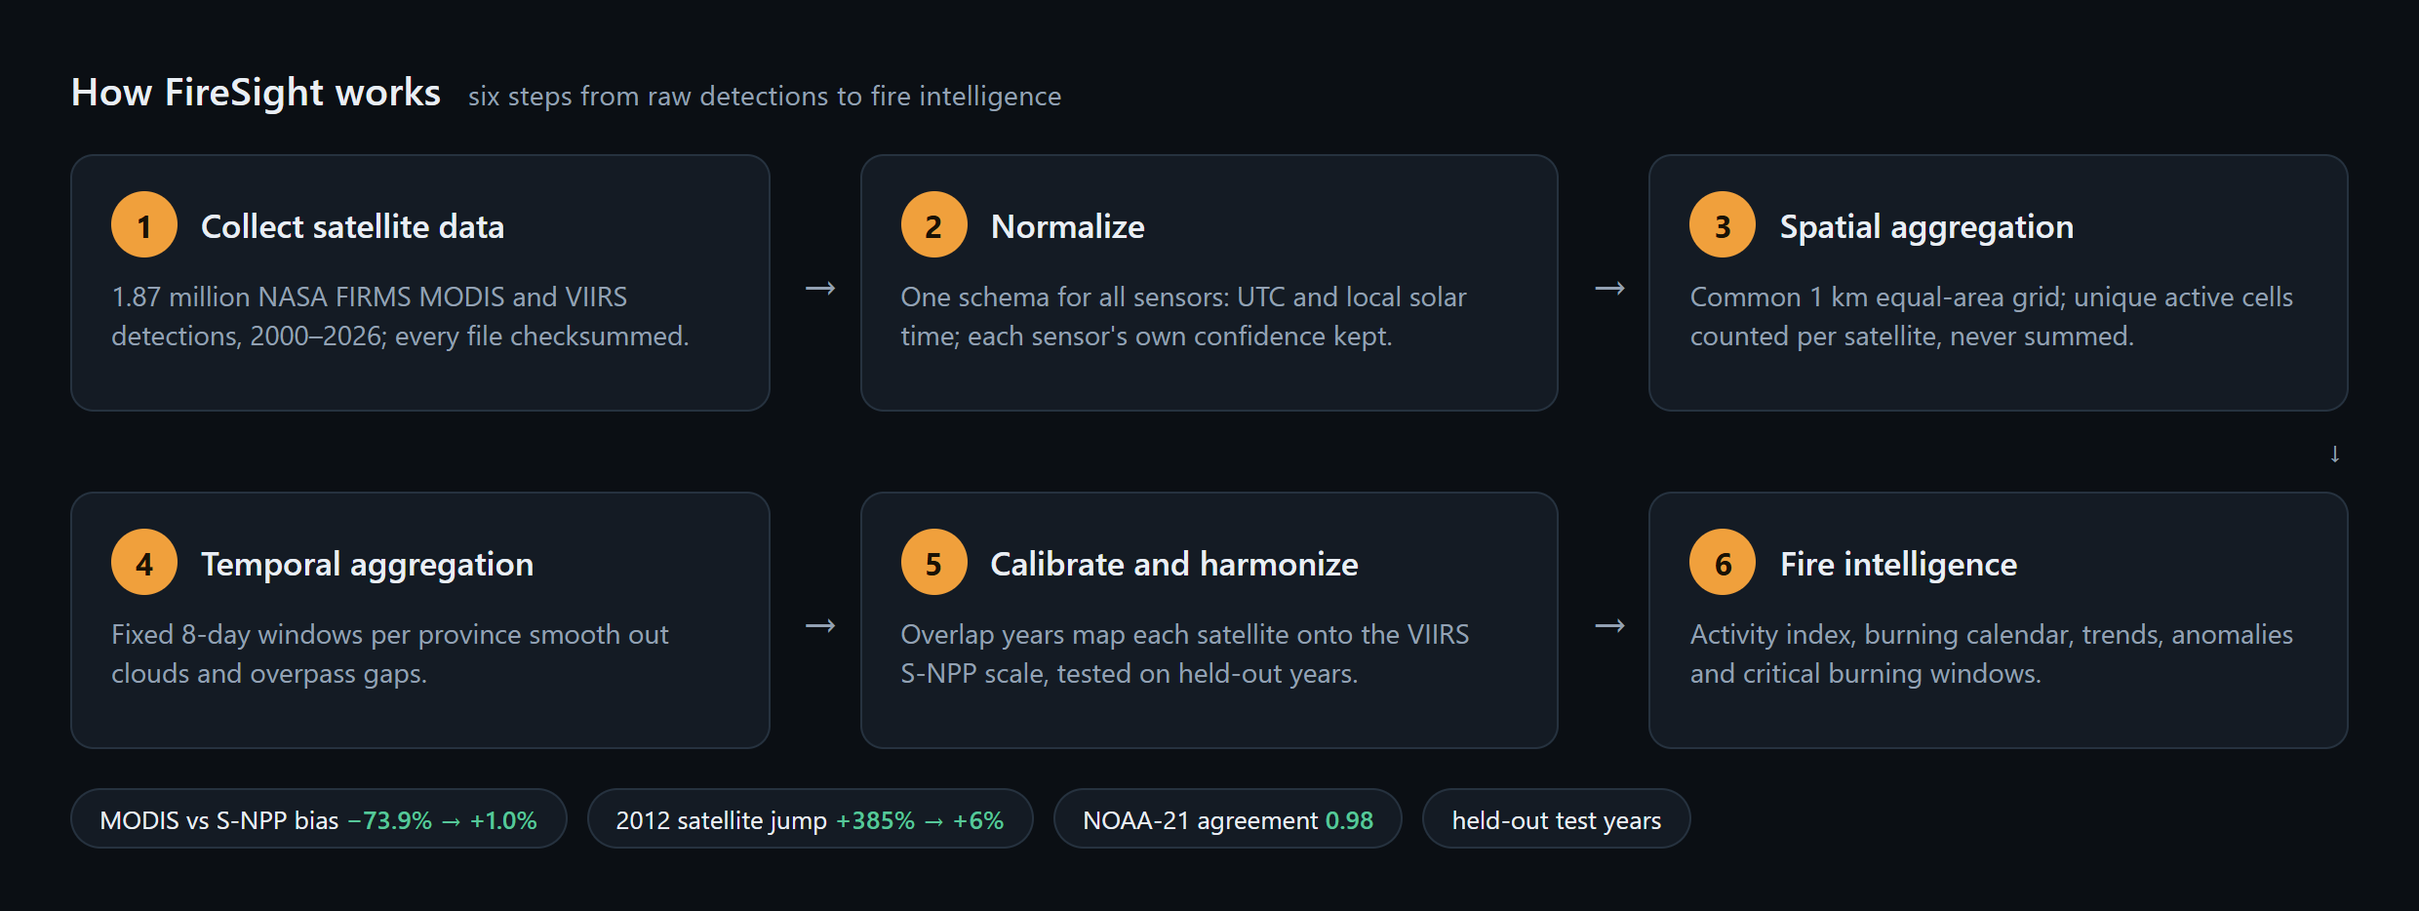
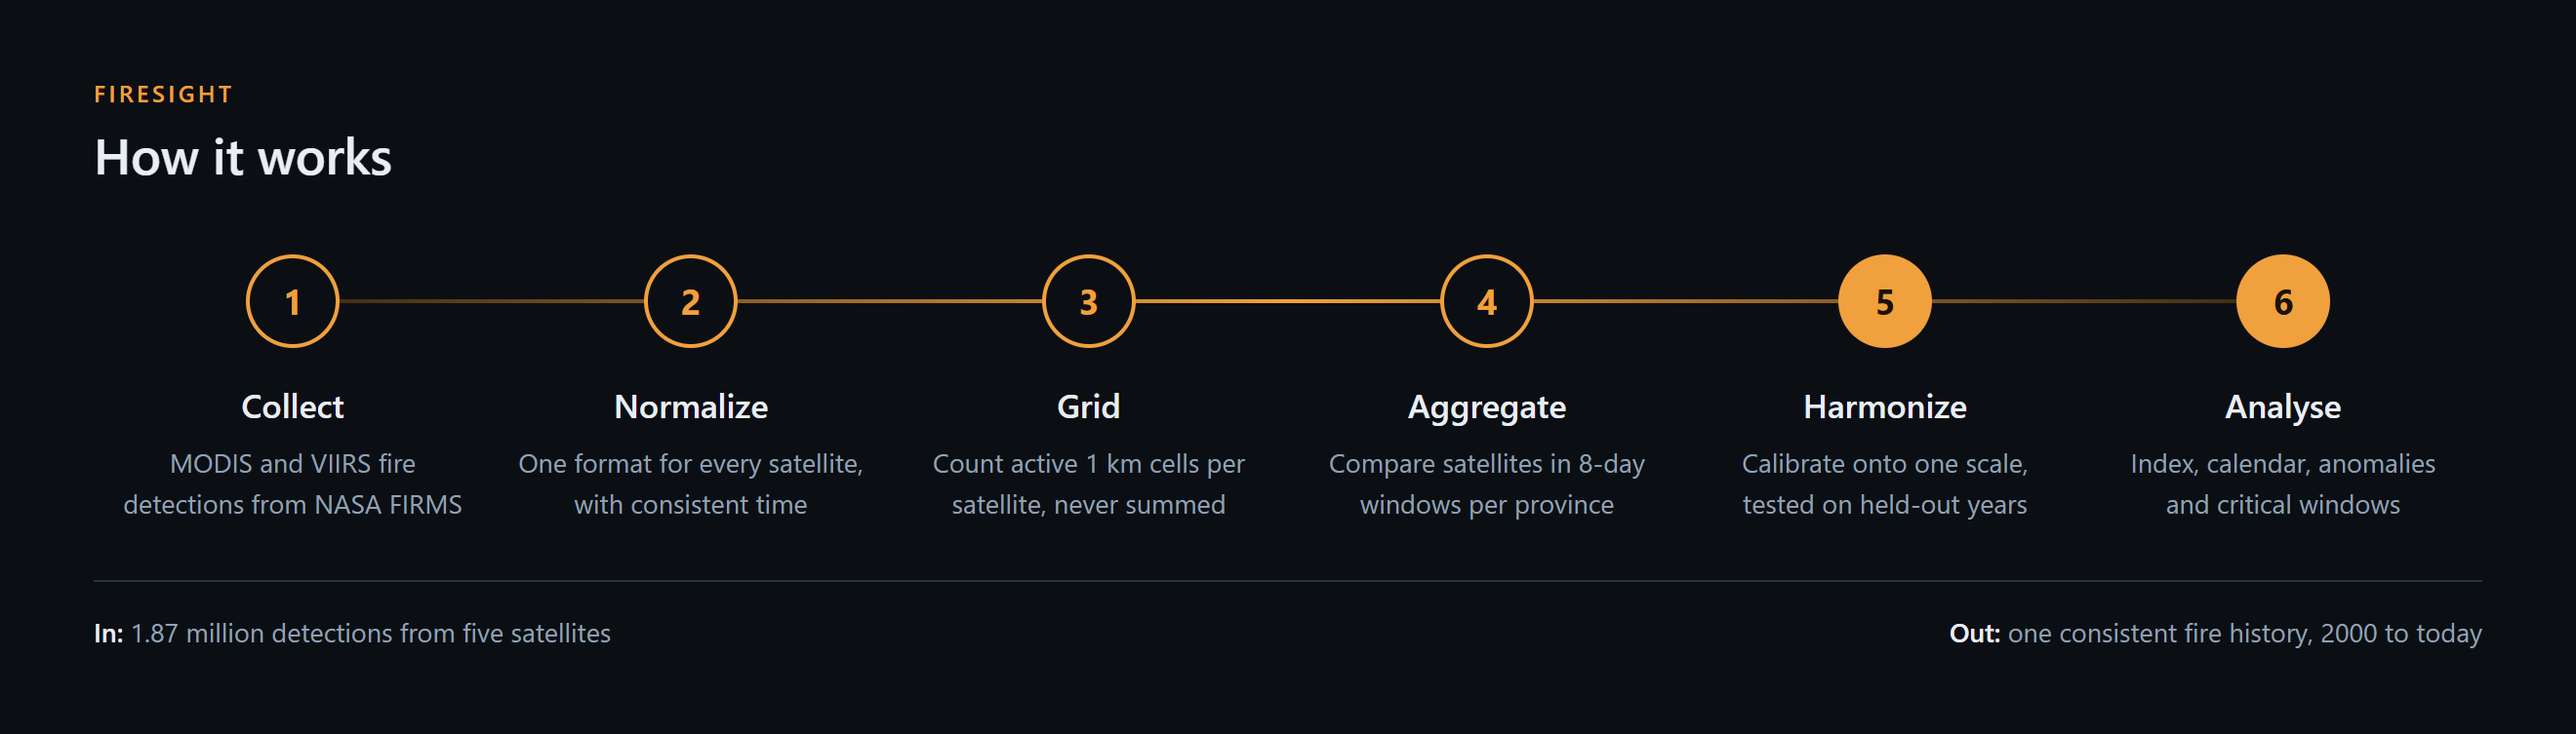
Polish README visuals and cite sources in the Sherani story
README
- Clean Architecture and How It Works diagrams (docs/diagrams/).
- Showcase panels for the Sherani fire story and the Method &
  validation page, with links to the full-page captures.
- "Use of AI tools" section, as required by the Space Apps SI policy.
- Step names aligned with the diagram; folder-tree lines corrected.

Sherani story
- Press context reworded to match two verified sources (Arab News,
  24 May 2022; The Friday Times, 20 Sep 2022), shown as a numbered
  source list in the story card. The internal "check sources" note
  is removed.
- Full-page Sherani screenshot retaken.

Build passes; 35/35 tests pass.

diff --git a/frontend/src/components/Stories.tsx b/frontend/src/components/Stories.tsx
@@ -45,6 +45,13 @@ export function StoryBanner({ story, step, setStep, onClose }: { story: any; ste
         <div>
           {story.context.map((c: string, i: number) => <p key={i} style={{ margin: "0 0 6px", color: "#d6dee8" }}>{c}</p>)}
           <div className="faint" style={{ fontSize: 11.5 }}>{story.context_note}</div>
+          {story.sources?.length > 0 && (
+            <ol className="faint" style={{ fontSize: 11.5, margin: "4px 0 0", paddingLeft: 18 }} aria-label="Sources">
+              {story.sources.map((src: { label: string; url: string }) => (
+                <li key={src.url}><a href={src.url} target="_blank" rel="noopener noreferrer">{src.label}</a></li>
+              ))}
+            </ol>
+          )}
           {story.boundary_note && <div className="faint" style={{ fontSize: 11.5, marginTop: 4 }}>{story.boundary_note}</div>}
         </div>
         <div>

diff --git a/backend/services/stories.py b/backend/services/stories.py
@@ -21,14 +21,23 @@ STORIES = [
         "start": "2022-05-01", "end": "2022-06-10", "focus": "2022-05-20",
         "bounds": [69.6, 31.1, 70.35, 31.8],
         "context": [
-            "Press reports in May 2022 described a large fire in the chilgoza (Pinus gerardiana) pine forests "
-            "of Sherani district, on the Koh-e-Sulaiman range in north-eastern Balochistan.",
-            "Chilgoza pine nuts are an important source of income for local communities, and the Sherani forests "
-            "are among the largest chilgoza stands in the region.",
-            "Firefighting was reported to include aerial support, including an aircraft provided by Iran.",
+            "In May 2022 a large fire burned the chilgoza (pine-nut) forest of Sherani district, in the "
+            "Koh-e-Sulaiman range of north-eastern Balochistan, a range described as home to the world's largest "
+            "pine-nut forest.",
+            "The forests matter to local livelihoods: about half of the local population is reported to depend on "
+            "income from chilgoza forests.",
+            "An Iranian Il-76 air tanker joined the firefighting effort after the fire had burned for about two weeks.",
         ],
-        "context_note": "Context is summarised from press reports and should be checked against the team's cited "
-                        "sources before presentation. All figures in this story are computed from FIRMS data.",
+        "context_note": "Background from the press reports cited below. All figures in this story are computed "
+                        "from NASA FIRMS data.",
+        "sources": [
+            {"label": "Arab News, 24 May 2022: “After two weeks raging, Iranian air tanker puts out forest "
+                      "fire in southwest Pakistan”",
+             "url": "https://arabnews.pk/node/2088541"},
+            {"label": "The Friday Times, 20 Sep 2022: “Long-term impacts of ‘terrible’ fire season in "
+                      "Pakistan’s mountains”",
+             "url": "https://www.thefridaytimes.com/20-Sep-2022/long-term-impacts-of-terrible-fire-season-in-pakistan-s-mountains"},
+        ],
         "boundary_note": "The geoBoundaries 2019 district layer used by FireSight does not separate Sherani "
                          "district; these detections fall inside the polygon labelled Zhob. The story therefore "
                          "uses an event box drawn around the detections.",

diff --git a/README.md b/README.md
@@ -35,6 +35,7 @@
 - [Run FireSight locally](#run-firesight-locally)
 - [Architecture](#architecture)
 - [Data sources and acknowledgements](#data-sources-and-acknowledgements)
+- [Use of AI tools](#use-of-ai-tools)
 
 ---
 
@@ -104,12 +105,19 @@ Every number comes from NASA FIRMS data. Every result carries its source platfor
 | **Export** | Harmonized CSV (per-satellite contributions, uncertainty, method, anomaly, calibration version) and raw-detection CSV (source file and row). |
 | **Beyond Pakistan** | Areas outside the processed region are labelled "historical data not acquired" and can fetch recent raw FIRMS detections on demand. Pakistan's calibration is never applied to them. |
 
-<table>
-<tr>
-<td width="50%"><img src="docs/screenshots/02_story_sherani.png" alt="Sherani fire story" /><br/><sub>Fire story: Sherani chilgoza pine forest, May 2022</sub></td>
-<td width="50%"><img src="docs/screenshots/04_method.png" alt="Method and validation page" /><br/><sub>Method & validation page with live results</sub></td>
-</tr>
-</table>
+### Fire story: Sherani chilgoza pine forest, May 2022
+
+A guided case study on live NASA FIRMS data: the event (with cited press sources), where each satellite saw it, and how unusual it was against the same dates in 25 other years.
+
+![FireSight fire story for the Sherani chilgoza pine forest fire, May 2022: the story summary with FIRMS figures, the fire map with detections from four satellites and the peak-day panel, and the 2022 burning calendar with highly unusual days marked](docs/screenshots/showcase_story_sherani.png)
+
+### Method & validation
+
+Every calibration is tested on years the model never saw, and the results, the effect of each added satellite, reliability by scale and the limitations are all shown inside the app.
+
+![FireSight Method and validation page: calibration results on held-out years, artificial jumps removed for each added satellite, reliability by country, province and district, and the limitations shown to users](docs/screenshots/showcase_method_validation.png)
+
+<sub>Full-page captures: [fire story](docs/screenshots/02_story_sherani.png) · [method & validation](docs/screenshots/04_method.png)</sub>
 
 Shareable links:
 
@@ -122,13 +130,13 @@ Shareable links:
 
 ## How it works
 
-![How FireSight works: six steps from raw NASA FIRMS detections to fire intelligence](docs/diagrams/how_it_works.png)
+![How FireSight works: collect, normalize, grid, aggregate, harmonize and analyse, turning 1.87 million detections from five satellites into one consistent fire history](docs/diagrams/how_it_works.png)
 
-1. **Collect satellite data.** Raw files from the FIRMS country archive (MODIS C6.1 2000–2025, VIIRS S-NPP 2012–2025, NOAA-20 2018–2025) and the FIRMS Area API (NOAA-21, 2026 data and the near-real-time gap). Files are never modified, and each one is checksummed in `data/metadata/manifest.json`.
+1. **Collect.** Raw files from the FIRMS country archive (MODIS C6.1 2000–2025, VIIRS S-NPP 2012–2025, NOAA-20 2018–2025) and the FIRMS Area API (NOAA-21, 2026 data and the near-real-time gap). Files are never modified, and each one is checksummed in `data/metadata/manifest.json`.
 2. **Normalize.** Every FIRMS file layout is mapped to one schema. The original confidence (whose scales differ between sensors), both brightness channels, pixel size, product version, source file and row are kept. Each detection gets a UTC timestamp and a local solar time.
-3. **Spatial aggregation.** Detections are placed on a common **1 km equal-area grid** (EPSG:6933). For each satellite and day, an active cell counts once, which removes most of the pixel-size difference. Satellites are never summed.
-4. **Temporal aggregation.** Satellites are compared in **fixed 8-day windows per province**. These are long enough to smooth out clouds and overpass gaps, and short enough to resolve the burning seasons; daily navigation is kept.
-5. **Calibrate and harmonize.** On overlap years, each satellite is mapped onto the **VIIRS S-NPP reference scale**. The model is chosen by blocked-year cross-validation within the training years, with 80% prediction intervals. The record is then carried by one satellite at a time, so it never jumps:
+3. **Grid (spatial aggregation).** Detections are placed on a common **1 km equal-area grid** (EPSG:6933). For each satellite and day, an active cell counts once, which removes most of the pixel-size difference. Satellites are never summed.
+4. **Aggregate (temporal aggregation).** Satellites are compared in **fixed 8-day windows per province**. These are long enough to smooth out clouds and overpass gaps, and short enough to resolve the burning seasons; daily navigation is kept.
+5. **Harmonize (calibration).** On overlap years, each satellite is mapped onto the **VIIRS S-NPP reference scale**. The model is chosen by blocked-year cross-validation within the training years, with 80% prediction intervals. The record is then carried by one satellite at a time, so it never jumps:
 
    | Period | Source of the record |
    |---|---|
@@ -138,7 +146,7 @@ Shareable links:
    | From 3 Nov 2026 | Calibrated NOAA-21 |
 
    Provinces are calibrated directly, the country is the sum of its provinces, and districts receive shares of their province.
-6. **Generate fire intelligence.**
+6. **Analyse (fire intelligence).**
    - **Activity index (0–100):** the percentile of a day among the area's own active days.
    - **Anomalies:** a robust seasonal z-score, (x − median) / (1.4826 × MAD), against the same dates ±7 days in every other year.
    - **Critical windows:** weeks elevated in at least half of the complete years.
@@ -242,7 +250,13 @@ For frontend development, run `npm run dev` in `frontend/` (http://localhost:517
 
 ## Architecture
 
-<p align="center"><img src="docs/diagrams/architecture.png" alt="FireSight architecture: NASA FIRMS, ingestion, processing, harmonization engine, Parquet and DuckDB storage, FastAPI, web app" width="620" /></p>
+![FireSight architecture: NASA FIRMS data flow through a Python data pipeline and harmonization engine into a Parquet and DuckDB analytical store, served by a FastAPI REST API to a React web application](docs/diagrams/architecture.png)
+
+FireSight has two halves that meet at one analytical store:
+
+- **Offline pipeline (run when new data arrive).** Downloads NASA FIRMS and boundary data, then normalizes, grids, calibrates, harmonizes and validates it, writing every result as Parquet files with a SHA-256 record of each source file.
+- **Online application (per request).** A FastAPI service queries those files in-process with DuckDB and returns JSON or CSV to the React web app. No database server is needed, and the whole app runs as one process on a laptop.
+- **Runtime services.** The browser loads NASA GIBS imagery and Esri basemap tiles directly. Recent FIRMS data for areas outside Pakistan are requested by the server, so the FIRMS key never reaches the browser.
 
 ```
 backend/
@@ -254,10 +268,10 @@ backend/
   api/            FastAPI app (DuckDB over Parquet); also serves the built frontend
 frontend/         React + Vite + TypeScript, MapLibre GL, Apache ECharts
 validation/       validation experiments -> results.json
-scripts/          download, pipeline, EDA, API probes
-docs/             plan, EDA and validation reports, screenshots, demo script
+scripts/          data download, processing pipeline, EDA report
+docs/             EDA and validation reports, screenshots, diagrams
 tests/            pytest suites
-data/             raw NASA files, processed data, metadata (not in Git)
+data/             metadata (download manifest, data inventory); raw and processed data are not in Git
 ```
 
 ## Data sources and acknowledgements
@@ -270,6 +284,23 @@ data/             raw NASA files, processed data, metadata (not in Git)
 - **Open-source software:** FastAPI, DuckDB, pandas, NumPy, PyArrow, pyproj, Shapely, SciPy, scikit-learn, React, Vite, TypeScript, MapLibre GL JS, Apache ECharts.
 
 We acknowledge the use of data and imagery from NASA's Fire Information for Resource Management System (FIRMS), part of NASA's Earth Science Data and Information System (ESDIS).
+
+## Use of AI tools
+
+In line with the NASA Space Apps policy on Super Intelligence (SI) tools, we disclose where AI assisted this project. FireSight was developed with the help of **Claude** (Anthropic), used through Claude Code.
+
+| Area | How AI assisted |
+|---|---|
+| Planning and research | Brainstorming the approach and features; exploring NASA FIRMS data availability and documentation |
+| Data analysis | Writing and running the exploratory-analysis and validation scripts; interpreting their results |
+| Code | Backend, frontend and tests; debugging and troubleshooting |
+| Writing | This README, the EDA and validation reports, and presentation material |
+| Visual design | Application layout and styling, the diagrams in `docs/diagrams/`, and the showcase images composed from app screenshots |
+
+- **Data and results are not AI-generated.** Every figure is computed from NASA FIRMS data by the code in this repository and can be reproduced by following [Run FireSight locally](#run-firesight-locally).
+- **The team reviewed and tested the work.** Methods, results and limitations were checked by the team, and the automated test suite covers parsers, the grid, calibration, anomalies, windows and the API.
+- **FireSight contains no AI assistant or generative model.** Its harmonization uses statistical calibration models fitted to the years in which satellites overlap.
+- **Commit metadata records it.** Commits made with AI assistance carry a `Co-Authored-By: Claude` line in the Git history.
 
 ## License
 
